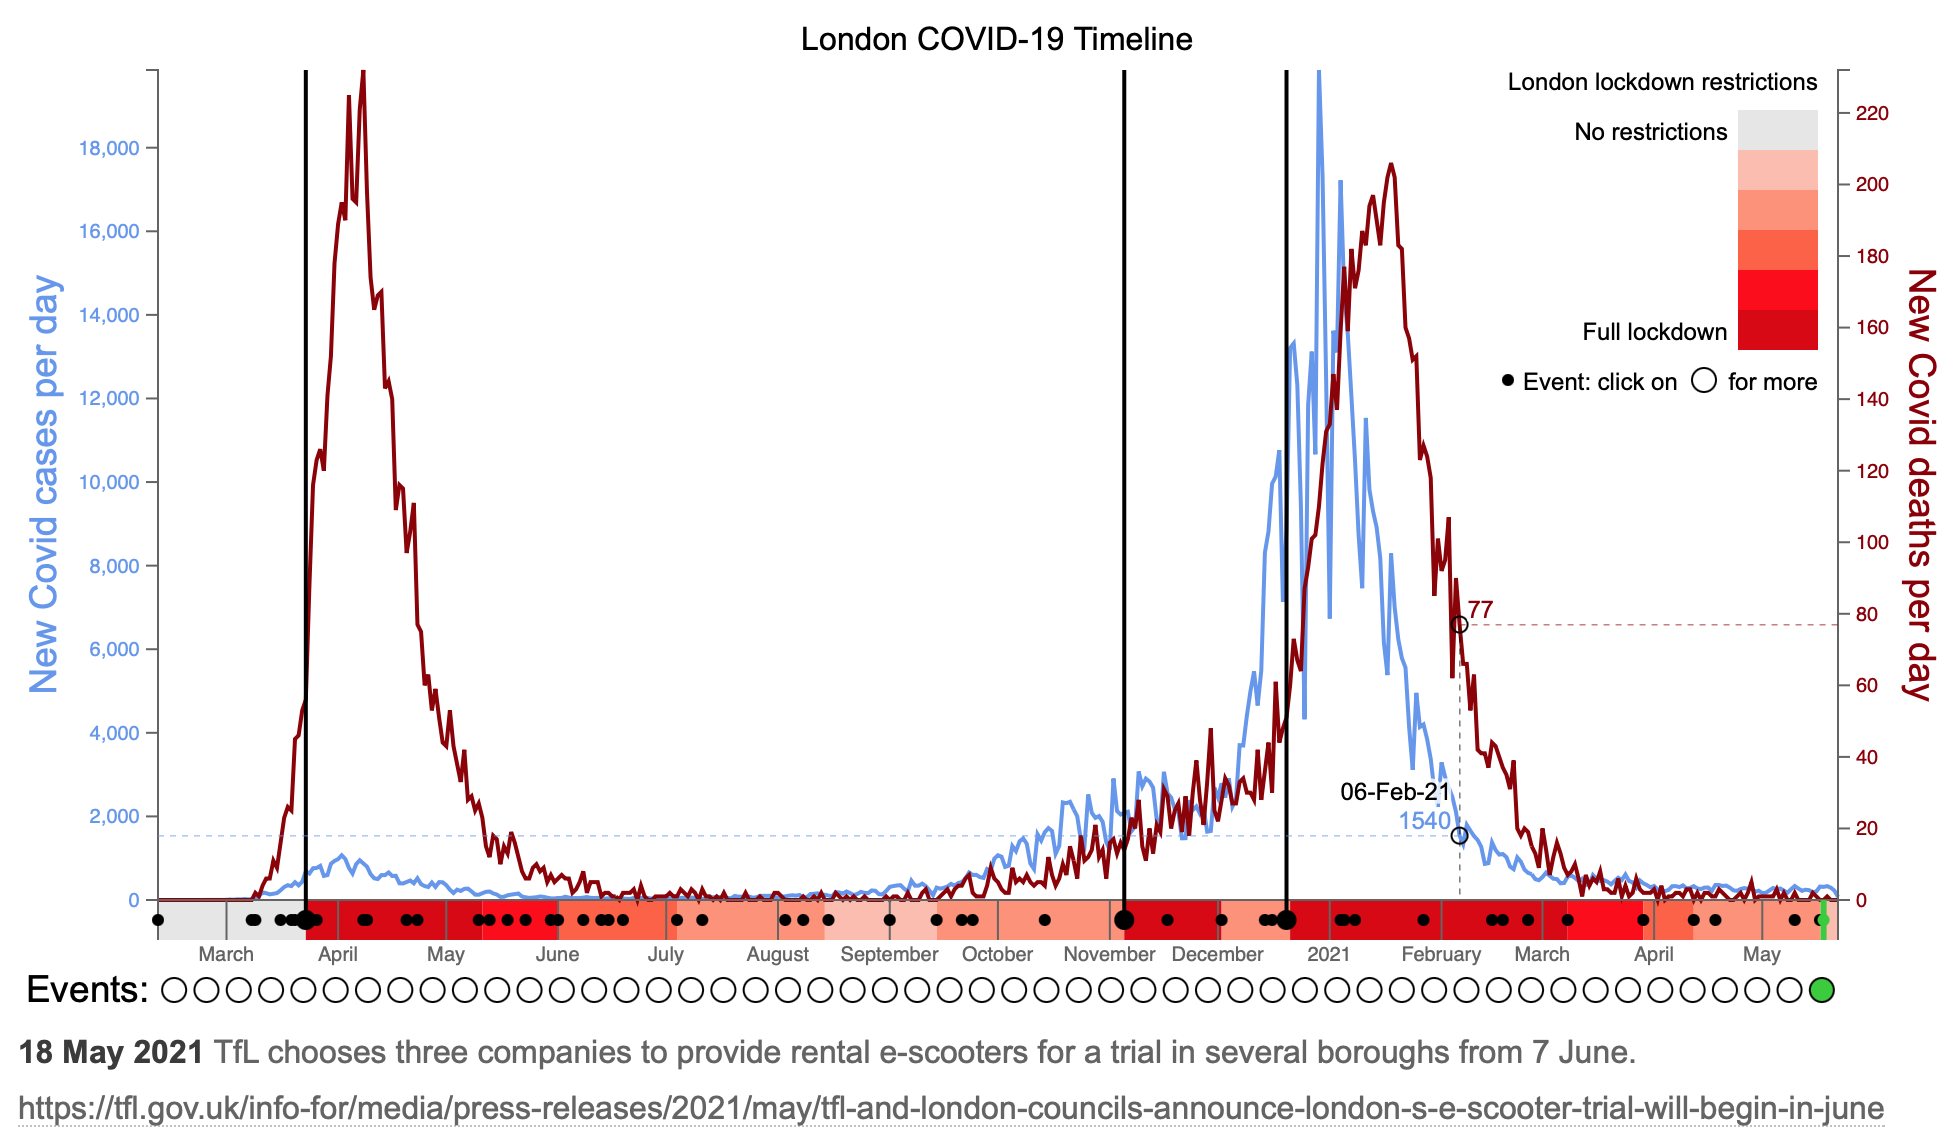
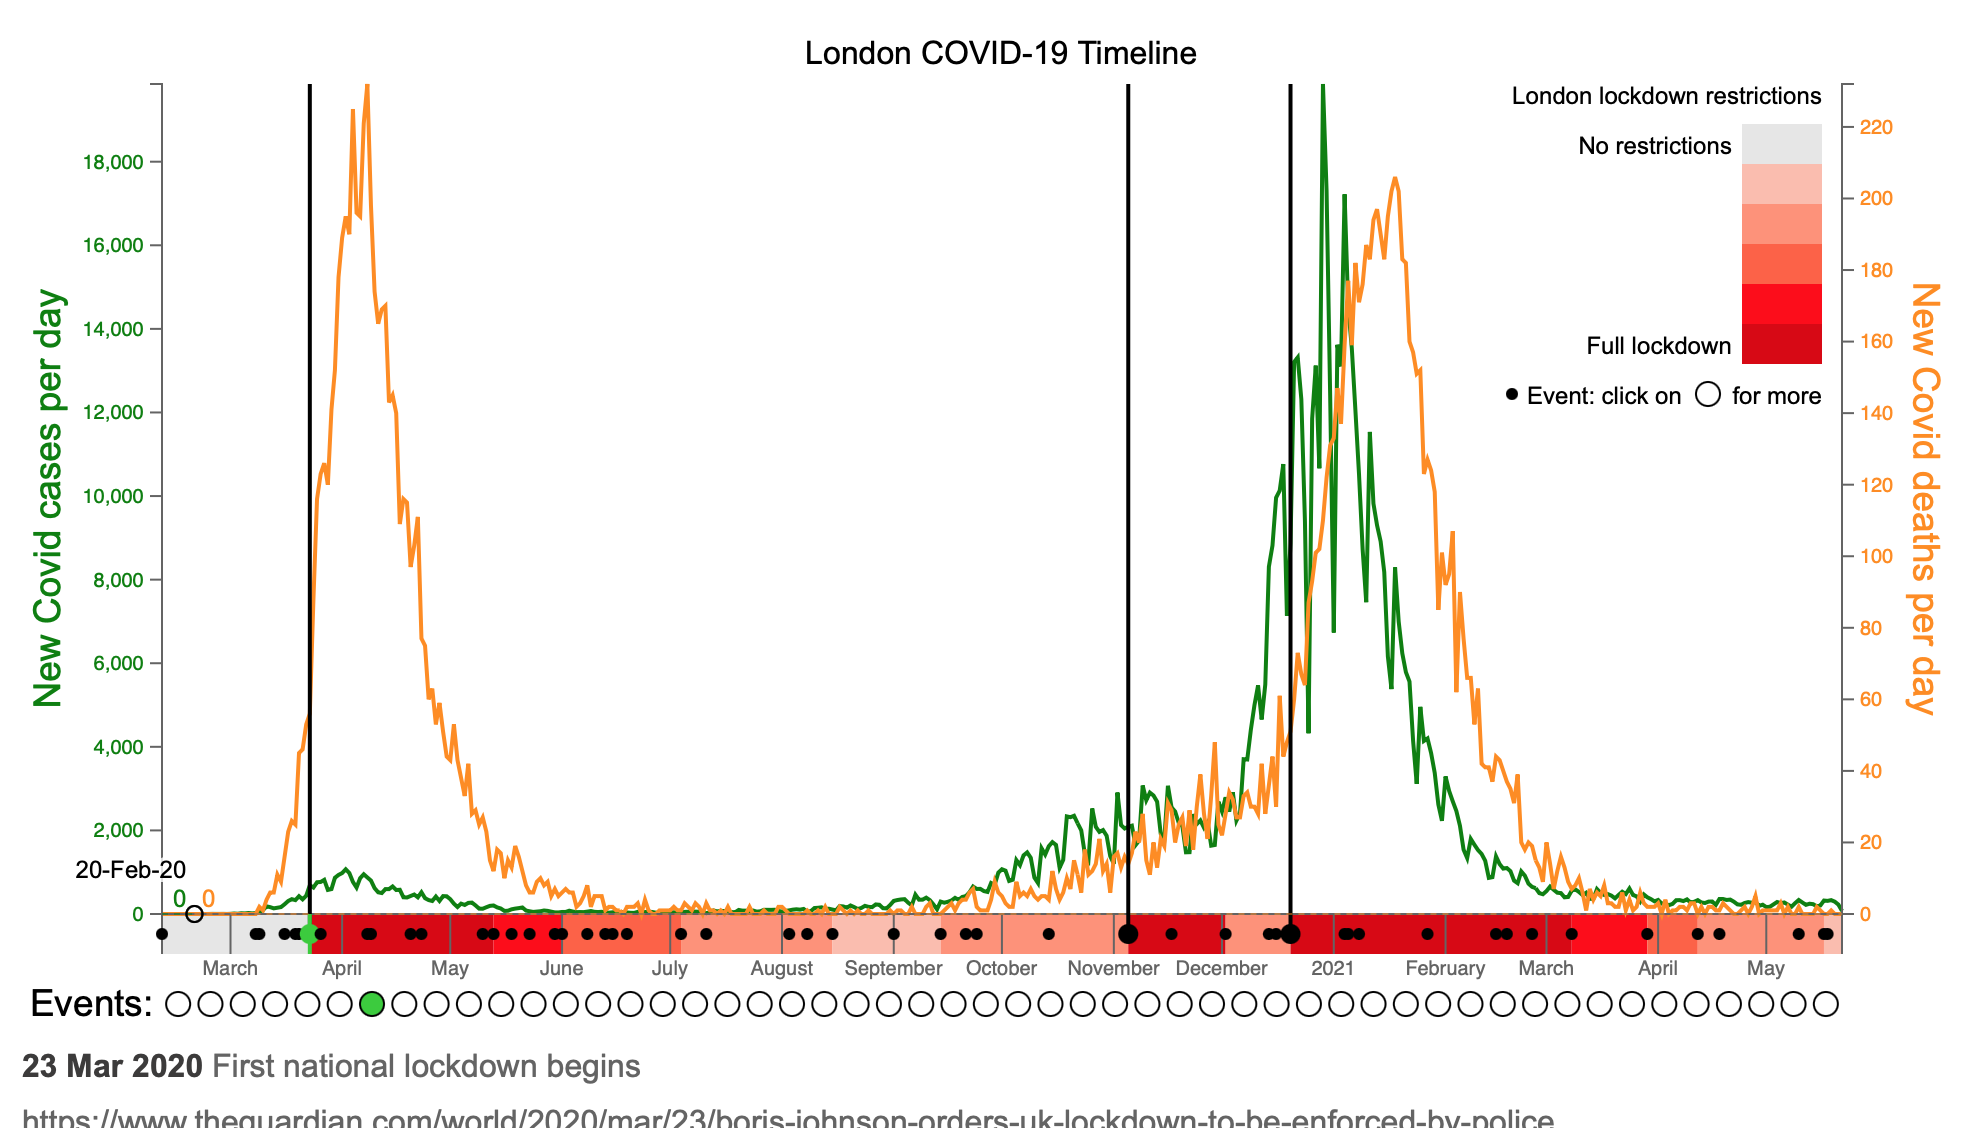
Update timeline colours to be more visible

diff --git a/sydney/sydney_lockdown_style.css b/sydney/sydney_lockdown_style.css
@@ -21,11 +21,11 @@ text.title {
 }
 
     .line.cases {
-        stroke: cornflowerblue;
+        stroke: green;
     }
 
     .line.deaths {
-        stroke: darkred;
+        stroke: darkorange;
     }
 
 /* For data axis labels */
@@ -34,11 +34,11 @@ text.title {
 }
 
     .axis.cases text {
-        fill: cornflowerblue;
+        fill: green;
     }
 
     .axis.deaths text {
-        fill: darkred;
+        fill: darkorange;
     }
 
 text.label {
@@ -49,20 +49,19 @@ text.label {
 
 /* Tooltip */
 line.yCases {
-    stroke: cornflowerblue;
+    stroke: green;
     stroke-dasharray: 3,3;
     opacity: 0.5;
 }
 
 line.yDeaths {
-    stroke: darkred;
+    stroke: darkorange;
     stroke-dasharray: 3,3;
     opacity: 0.5;
 }
 
 rect.deaths {
-    fill: darkred;
-    opacity: 0.5;
+    fill: darkorange;
 }
 
 line.x {
@@ -84,12 +83,12 @@ text.tooltip.back.deaths {
 }
 text.tooltip.front.cases {
     text-anchor: end;
-    fill: cornflowerblue;
+    fill: green;
     font: 12px Arial;
 }
 
 text.tooltip.front.deaths {
-    fill: darkred;
+    fill: orangered;
     font: 12px Arial;
 }
 

diff --git a/london/london_lockdown_style.css b/london/london_lockdown_style.css
@@ -21,11 +21,11 @@ text.title {
 }
 
     .line.cases {
-        stroke: cornflowerblue;
+        stroke: green;
     }
 
     .line.deaths {
-        stroke: darkred;
+        stroke: darkorange;
     }
 
 /* For data axis labels */
@@ -34,11 +34,11 @@ text.title {
 }
 
     .axis.cases text {
-        fill: cornflowerblue;
+        fill: green;
     }
 
     .axis.deaths text {
-        fill: darkred;
+        fill: darkorange;
     }
 
 text.label {
@@ -49,13 +49,13 @@ text.label {
 
 /* Tooltip */
 line.yCases {
-    stroke: cornflowerblue;
+    stroke: green;
     stroke-dasharray: 3,3;
     opacity: 0.5;
 }
 
 line.yDeaths {
-    stroke: darkred;
+    stroke: darkorange;
     stroke-dasharray: 3,3;
     opacity: 0.5;
 }
@@ -79,12 +79,12 @@ text.tooltip.back.deaths {
 }
 text.tooltip.front.cases {
     text-anchor: end;
-    fill: cornflowerblue;
+    fill: green;
     font: 12px Arial;
 }
 
 text.tooltip.front.deaths {
-    fill: darkred;
+    fill: darkorange;
     font: 12px Arial;
 }
 
